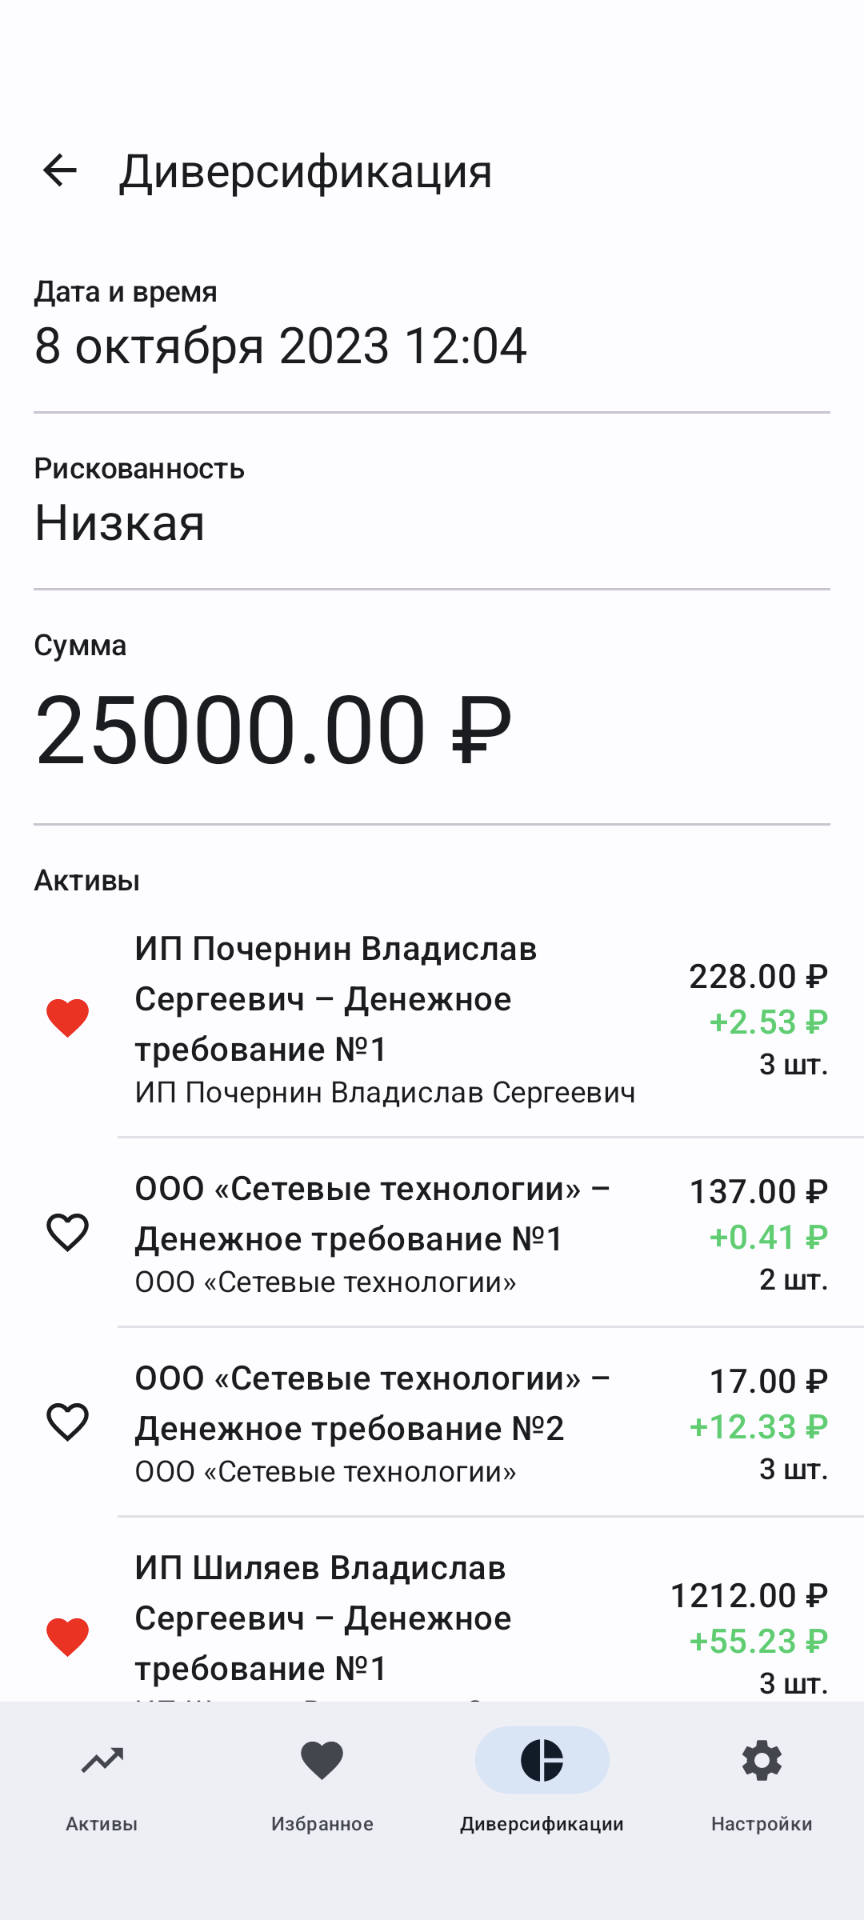
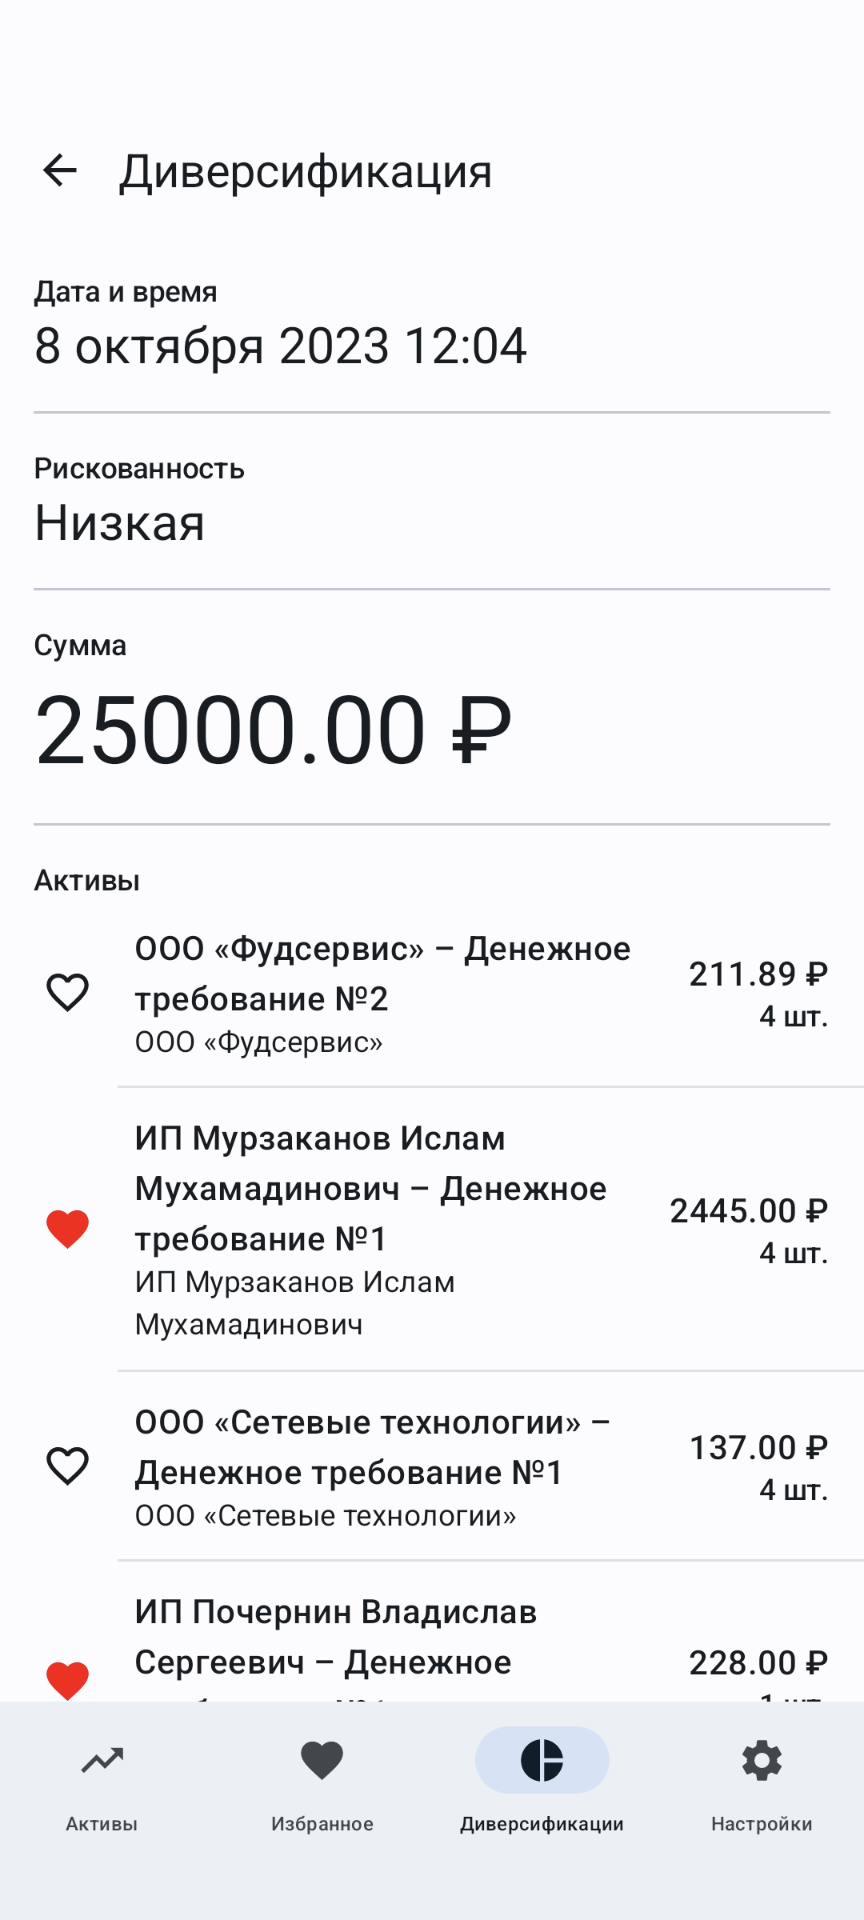
Внести изменения в макет (#12)
* Make changes to layout

* Update diversification screen screenshot

diff --git a/android/app/src/main/java/ru/tesseract/assets/ui/AssetsScreen.kt b/android/app/src/main/java/ru/tesseract/assets/ui/AssetsScreen.kt
@@ -19,6 +19,7 @@ import com.ramcosta.composedestinations.navigation.DestinationsNavigator
 import ru.tesseract.R
 import ru.tesseract.assets.domain.Asset
 import ru.tesseract.destinations.AssetScreenDestination
+import ru.tesseract.diversifications.domain.RiskTolerance
 
 val sampleAssets =
     listOf(
@@ -27,6 +28,8 @@ val sampleAssets =
             name = "АО «ЛИД» – Денежное требование №1",
             organization = "АО «ЛИД»",
             price = "220.33 ₽",
+            change = "+12.33 ₽",
+            riskTolerance = RiskTolerance.Low,
             isFavorite = false,
         ),
         Asset(
@@ -34,6 +37,8 @@ val sampleAssets =
             name = "ООО «Фудсервис» – Денежное требование №1",
             organization = "ООО «Фудсервис»",
             price = "225.04 ₽",
+            change = "–10.24 ₽",
+            riskTolerance = RiskTolerance.Low,
             isFavorite = false,
         ),
         Asset(
@@ -41,6 +46,8 @@ val sampleAssets =
             name = "ООО «Фудсервис» – Денежное требование №2",
             organization = "ООО «Фудсервис»",
             price = "211.89 ₽",
+            change = "+17.33 ₽",
+            riskTolerance = RiskTolerance.Low,
             isFavorite = false,
         ),
         Asset(
@@ -48,6 +55,8 @@ val sampleAssets =
             name = "ИП Почернин Владислав Сергеевич – Денежное требование №1",
             organization = "ИП Почернин Владислав Сергеевич",
             price = "228.00 ₽",
+            change = "+2.53 ₽",
+            riskTolerance = RiskTolerance.Low,
             isFavorite = true,
         ),
         Asset(
@@ -55,6 +64,8 @@ val sampleAssets =
             name = "ООО «Новый Горизонт» – Денежное требование №1",
             organization = "ООО «Новый Горизонт»",
             price = "22.00 ₽",
+            change = "+1.44 ₽",
+            riskTolerance = RiskTolerance.Low,
             isFavorite = false,
         ),
         Asset(
@@ -62,6 +73,8 @@ val sampleAssets =
             name = "ООО «Сетевые технологии» – Денежное требование №1",
             organization = "ООО «Сетевые технологии»",
             price = "137.00 ₽",
+            change = "+0.41 ₽",
+            riskTolerance = RiskTolerance.Low,
             isFavorite = false,
         ),
         Asset(
@@ -69,6 +82,8 @@ val sampleAssets =
             name = "ООО «Сетевые технологии» – Денежное требование №2",
             organization = "ООО «Сетевые технологии»",
             price = "17.00 ₽",
+            change = "+12.33 ₽",
+            riskTolerance = RiskTolerance.Low,
             isFavorite = false,
         ),
         Asset(
@@ -76,6 +91,8 @@ val sampleAssets =
             name = "ООО «Сетевые технологии» – Денежное требование №3",
             organization = "ООО «Сетевые технологии»",
             price = "13.00 ₽",
+            change = "+12.33 ₽",
+            riskTolerance = RiskTolerance.Low,
             isFavorite = false,
         ),
         Asset(
@@ -83,6 +100,8 @@ val sampleAssets =
             name = "ИП Мурзаканов Ислам Мухамадинович – Денежное требование №1",
             organization = "ИП Мурзаканов Ислам Мухамадинович",
             price = "2445.00 ₽",
+            change = "+140.12 ₽",
+            riskTolerance = RiskTolerance.Low,
             isFavorite = true,
         ),
         Asset(
@@ -90,6 +109,8 @@ val sampleAssets =
             name = "ИП Шиляев Владислав Сергеевич – Денежное требование №1",
             organization = "ИП Шиляев Владислав Сергеевич",
             price = "1212.00 ₽",
+            change = "+55.23 ₽",
+            riskTolerance = RiskTolerance.Low,
             isFavorite = true,
         ),
         Asset(
@@ -97,6 +118,8 @@ val sampleAssets =
             name = "ИП Разукрантов Владислав Евгеньевич – Денежное требование №1",
             organization = "ИП Разукрантов Владислав Евгеньевич",
             price = "2124.00 ₽",
+            change = "+123.67 ₽",
+            riskTolerance = RiskTolerance.Low,
             isFavorite = true,
         ),
     )
@@ -123,9 +146,8 @@ fun AssetsScreen(navigator: DestinationsNavigator) {
                     .nestedScroll(scrollBehavior.nestedScrollConnection),
         ) {
             items(sampleAssets) {
-                AssetSummary(
+                AssetSummaryWithChange(
                     asset = it,
-                    quantity = null,
                     onClick = { navigator.navigate(AssetScreenDestination(it.id)) },
                     modifier = Modifier.fillMaxWidth(),
                 )

diff --git a/android/app/src/main/java/ru/tesseract/assets/ui/AssetScreen.kt b/android/app/src/main/java/ru/tesseract/assets/ui/AssetScreen.kt
@@ -25,6 +25,7 @@ import com.ramcosta.composedestinations.annotation.RootNavGraph
 import com.ramcosta.composedestinations.navigation.DestinationsNavigator
 import ru.tesseract.R
 import ru.tesseract.assets.domain.Asset
+import ru.tesseract.diversifications.ui.RiskTolerance
 import ru.tesseract.ui.FavoriteIcon
 
 @OptIn(ExperimentalMaterial3Api::class)
@@ -61,12 +62,14 @@ fun AssetScreen(
                     .verticalScroll(rememberScrollState())
                     .nestedScroll(scrollBehavior.nestedScrollConnection)
                     .padding(padding)
-                    .padding(16.dp),
+                    .padding(vertical = 16.dp),
         ) {
             AssetDescription(asset)
-            Divider(modifier = Modifier.padding(vertical = 16.dp))
+            Divider(modifier = Modifier.padding(16.dp))
             Price(asset)
-            Divider(modifier = Modifier.padding(vertical = 16.dp))
+            Divider(modifier = Modifier.padding(16.dp))
+            RiskTolerance(asset.riskTolerance)
+            Divider(modifier = Modifier.padding(16.dp))
             OrganizationDescription(asset)
         }
     }
@@ -74,26 +77,33 @@ fun AssetScreen(
 
 @Composable
 private fun OrganizationDescription(asset: Asset) {
-    Text(
-        text = stringResource(id = R.string.asset_screen_organization),
-        style = MaterialTheme.typography.labelLarge,
-        modifier = Modifier.padding(bottom = 8.dp),
-    )
-    Text(text = asset.organization, style = MaterialTheme.typography.titleLarge)
-    Text(text = "Описание организации...")
+    Column(modifier = Modifier.padding(horizontal = 16.dp)) {
+        Text(
+            text = stringResource(id = R.string.asset_screen_organization),
+            style = MaterialTheme.typography.labelLarge,
+            modifier = Modifier.padding(bottom = 8.dp),
+        )
+        Text(text = asset.organization, style = MaterialTheme.typography.titleLarge)
+        Text(text = "Описание организации...")
+    }
 }
 
 @Composable
 private fun Price(asset: Asset) {
-    Text(
-        text = stringResource(id = R.string.asset_screen_price),
-        style = MaterialTheme.typography.labelLarge,
-    )
-    Text(text = asset.price, style = MaterialTheme.typography.displayMedium)
+    Column(modifier = Modifier.padding(horizontal = 16.dp)) {
+        Text(
+            text = stringResource(id = R.string.asset_screen_price),
+            style = MaterialTheme.typography.labelLarge,
+        )
+        Text(text = asset.price, style = MaterialTheme.typography.displayMedium)
+        Text(asset.annotatedPriceChange(), style = MaterialTheme.typography.titleMedium)
+    }
 }
 
 @Composable
 private fun AssetDescription(asset: Asset) {
-    Text(text = asset.name, style = MaterialTheme.typography.headlineMedium)
-    Text(text = "Описание актива...")
+    Column(modifier = Modifier.padding(horizontal = 16.dp)) {
+        Text(text = asset.name, style = MaterialTheme.typography.headlineMedium)
+        Text(text = "Описание актива...")
+    }
 }

diff --git a/android/app/src/main/java/ru/tesseract/assets/ui/AssetSummary.kt b/android/app/src/main/java/ru/tesseract/assets/ui/AssetSummary.kt
@@ -20,9 +20,45 @@ import ru.tesseract.assets.domain.Asset
 import ru.tesseract.ui.FavoriteIcon
 
 @Composable
-fun AssetSummary(
+fun DiversificationAssetSummary(
     asset: Asset,
-    quantity: Int?,
+    quantity: Int,
+    onClick: () -> Unit,
+    modifier: Modifier = Modifier,
+) {
+    AssetSummary(
+        asset = asset,
+        additionalInfo = {
+            Text(
+                text = stringResource(id = R.string.asset_quantity, quantity),
+                style = MaterialTheme.typography.titleSmall,
+            )
+        },
+        onClick = onClick,
+        modifier = modifier,
+    )
+}
+
+@Composable
+fun AssetSummaryWithChange(
+    asset: Asset,
+    onClick: () -> Unit,
+    modifier: Modifier = Modifier,
+) {
+    AssetSummary(
+        asset = asset,
+        additionalInfo = {
+            Text(asset.annotatedPriceChange(), style = MaterialTheme.typography.titleMedium)
+        },
+        onClick = onClick,
+        modifier = modifier,
+    )
+}
+
+@Composable
+private fun AssetSummary(
+    asset: Asset,
+    additionalInfo: @Composable () -> Unit,
     onClick: () -> Unit,
     modifier: Modifier = Modifier,
 ) {
@@ -54,12 +90,7 @@ fun AssetSummary(
             }
             Column(horizontalAlignment = Alignment.End) {
                 Text(asset.price, style = MaterialTheme.typography.titleMedium)
-                quantity?.let {
-                    Text(
-                        text = stringResource(id = R.string.asset_quantity, it),
-                        style = MaterialTheme.typography.titleSmall,
-                    )
-                }
+                additionalInfo()
             }
         }
         Divider(

diff --git a/android/app/src/main/java/ru/tesseract/diversifications/ui/DiversificationScreen.kt b/android/app/src/main/java/ru/tesseract/diversifications/ui/DiversificationScreen.kt
@@ -25,7 +25,7 @@ import com.ramcosta.composedestinations.annotation.Destination
 import com.ramcosta.composedestinations.annotation.RootNavGraph
 import com.ramcosta.composedestinations.navigation.DestinationsNavigator
 import ru.tesseract.R
-import ru.tesseract.assets.ui.AssetSummary
+import ru.tesseract.assets.ui.DiversificationAssetSummary
 import ru.tesseract.assets.ui.sampleAssets
 import ru.tesseract.destinations.AssetScreenDestination
 import ru.tesseract.diversifications.domain.RiskTolerance
@@ -92,7 +92,7 @@ private fun DiversificationAssets(navigator: DestinationsNavigator) {
         modifier = Modifier.padding(horizontal = 16.dp),
     )
     sampleAssets.shuffled().take(5).forEach { asset ->
-        AssetSummary(
+        DiversificationAssetSummary(
             asset = asset,
             quantity = Random.nextInt(1, 6),
             onClick = { navigator.navigate(AssetScreenDestination(asset.id)) },
@@ -113,7 +113,7 @@ private fun DiversificationSum(sum: String) {
 }
 
 @Composable
-private fun RiskTolerance(riskTolerance: RiskTolerance) {
+fun RiskTolerance(riskTolerance: RiskTolerance) {
     Column(modifier = Modifier.padding(horizontal = 16.dp)) {
         Text(
             text = stringResource(id = R.string.risk_tolerance),

diff --git a/android/app/src/main/java/ru/tesseract/assets/ui/AssetPriceChange.kt b/android/app/src/main/java/ru/tesseract/assets/ui/AssetPriceChange.kt
@@ -1,0 +1,29 @@
+package ru.tesseract.assets.ui
+
+import androidx.compose.material3.MaterialTheme
+import androidx.compose.runtime.Composable
+import androidx.compose.runtime.ReadOnlyComposable
+import androidx.compose.ui.graphics.Color
+import androidx.compose.ui.graphics.lerp
+import androidx.compose.ui.text.SpanStyle
+import androidx.compose.ui.text.buildAnnotatedString
+import androidx.compose.ui.text.withStyle
+import ru.tesseract.assets.domain.Asset
+
+@ReadOnlyComposable
+@Composable
+fun Asset.annotatedPriceChange() =
+    buildAnnotatedString {
+        withStyle(
+            SpanStyle(
+                color =
+                    when (change.first()) {
+                        '+' -> lerp(Color.Green, MaterialTheme.colorScheme.primary, 0.3f)
+                        '–' -> lerp(Color.Red, MaterialTheme.colorScheme.primary, 0.3f)
+                        else -> error("Invalid change")
+                    },
+            ),
+        ) {
+            append(change)
+        }
+    }

diff --git a/android/app/src/main/java/ru/tesseract/login/ui/LoginScreen.kt b/android/app/src/main/java/ru/tesseract/login/ui/LoginScreen.kt
@@ -29,6 +29,7 @@ import androidx.compose.ui.res.vectorResource
 import androidx.compose.ui.text.SpanStyle
 import androidx.compose.ui.text.buildAnnotatedString
 import androidx.compose.ui.text.input.PasswordVisualTransformation
+import androidx.compose.ui.text.style.TextAlign
 import androidx.compose.ui.text.style.TextDecoration
 import androidx.compose.ui.text.withStyle
 import androidx.compose.ui.unit.dp
@@ -94,6 +95,7 @@ private fun LoginForm(
             text = stringResource(id = R.string.login_screen_title),
             style = MaterialTheme.typography.headlineMedium,
             modifier = Modifier.fillMaxWidth(),
+            textAlign = TextAlign.Center,
         )
         Spacer(Modifier.size(24.dp))
         GoogleSignInButton(

diff --git a/android/app/src/main/java/ru/tesseract/assets/ui/FavoritesScreen.kt b/android/app/src/main/java/ru/tesseract/assets/ui/FavoritesScreen.kt
@@ -41,9 +41,8 @@ fun FavoritesScreen(navigator: DestinationsNavigator) {
                     .nestedScroll(scrollBehavior.nestedScrollConnection),
         ) {
             items(sampleAssets.filter { it.isFavorite }) {
-                AssetSummary(
+                AssetSummaryWithChange(
                     asset = it,
-                    quantity = null,
                     onClick = { navigator.navigate(AssetScreenDestination(it.id)) },
                     modifier = Modifier.fillMaxWidth(),
                 )

diff --git a/android/app/src/main/java/ru/tesseract/assets/domain/Asset.kt b/android/app/src/main/java/ru/tesseract/assets/domain/Asset.kt
@@ -1,9 +1,13 @@
 package ru.tesseract.assets.domain
 
+import ru.tesseract.diversifications.domain.RiskTolerance
+
 data class Asset(
     val id: Long,
     val name: String,
     val organization: String,
     val price: String,
+    val change: String,
+    val riskTolerance: RiskTolerance,
     val isFavorite: Boolean,
 )
